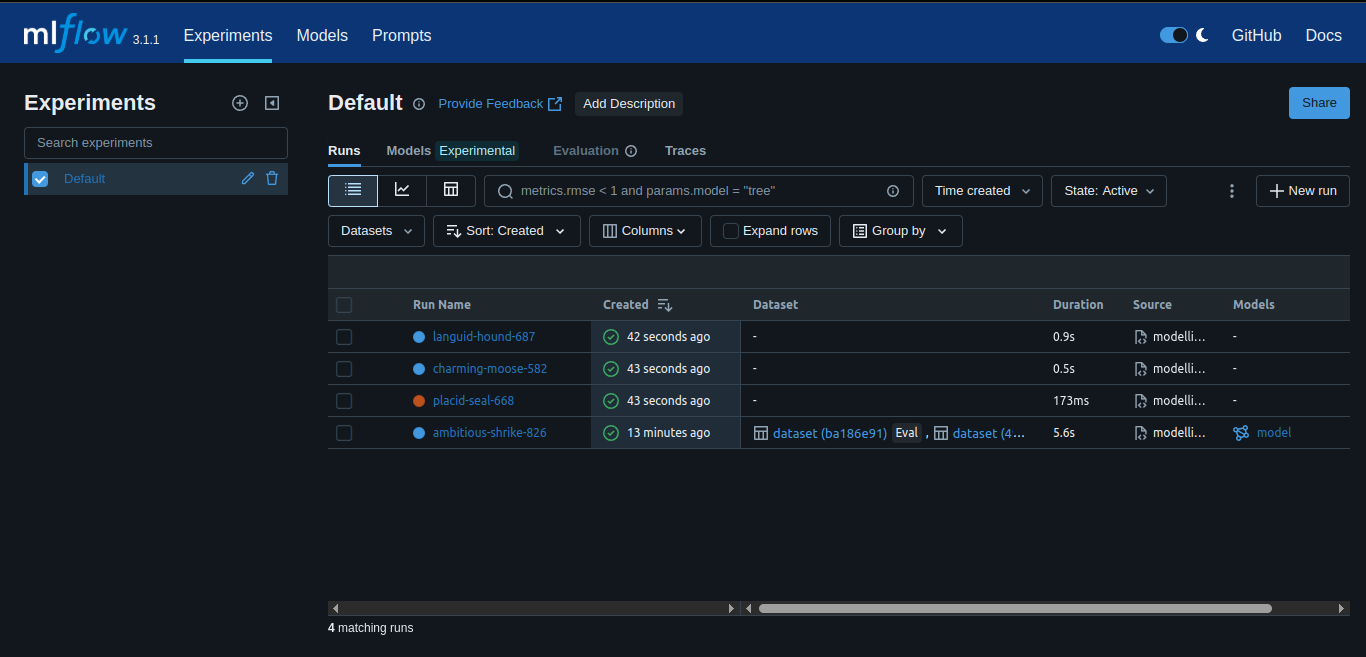
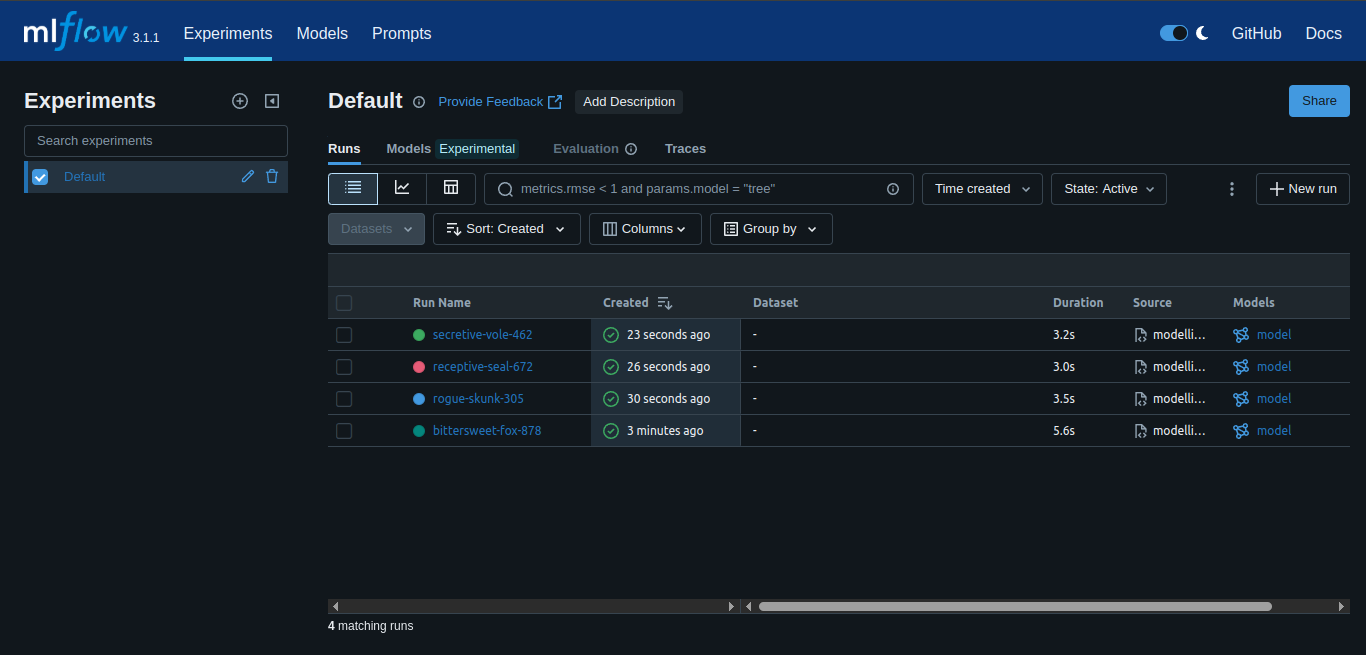
retrain model

diff --git a/modelling.py b/modelling.py
@@ -1,14 +1,10 @@
 import mlflow
-import mlflow.sklearn
+import mlflow.sklearn as mlflow_sk
 import pandas as pd
 from sklearn.ensemble import RandomForestRegressor
 from sklearn.metrics import mean_squared_error, r2_score
 
-# Autolog semua parameter dan metrics
-mlflow.sklearn.autolog()
-
 # Load Dataset
-
 path = "./Predict_Student_Performance_preprocessing"
 
 df_train = pd.read_csv(f"{path}/train.csv")
@@ -25,6 +21,13 @@ with mlflow.start_run():
     model.fit(X_train, y_train)
 
     predictions = model.predict(X_test)
+    
+    mlflow_sk.log_model(
+        sk_model=model,
+        name="model",
+        input_example=X_train[0:5]
+    )
+
     mse = mean_squared_error(y_test, predictions)
     r2 = r2_score(y_test, predictions)
 

diff --git a/modelling_tunning.py b/modelling_tunning.py
@@ -1,5 +1,5 @@
 import mlflow
-import mlflow.sklearn
+import mlflow.sklearn as mlflow_sk
 import pandas as pd
 from sklearn.ensemble import RandomForestRegressor
 from sklearn.metrics import mean_squared_error, r2_score
@@ -38,6 +38,11 @@ for params in param_grid:
     r2 = r2_score(y_test, predictions)
 
     # Manual Logging
+    mlflow_sk.log_model(
+      sk_model=model,
+      name="model",
+      input_example=X_train[0:5]
+    )
     mlflow.log_params(params)
     mlflow.log_metric("mse", mse)
     mlflow.log_metric("r2_score", r2)
